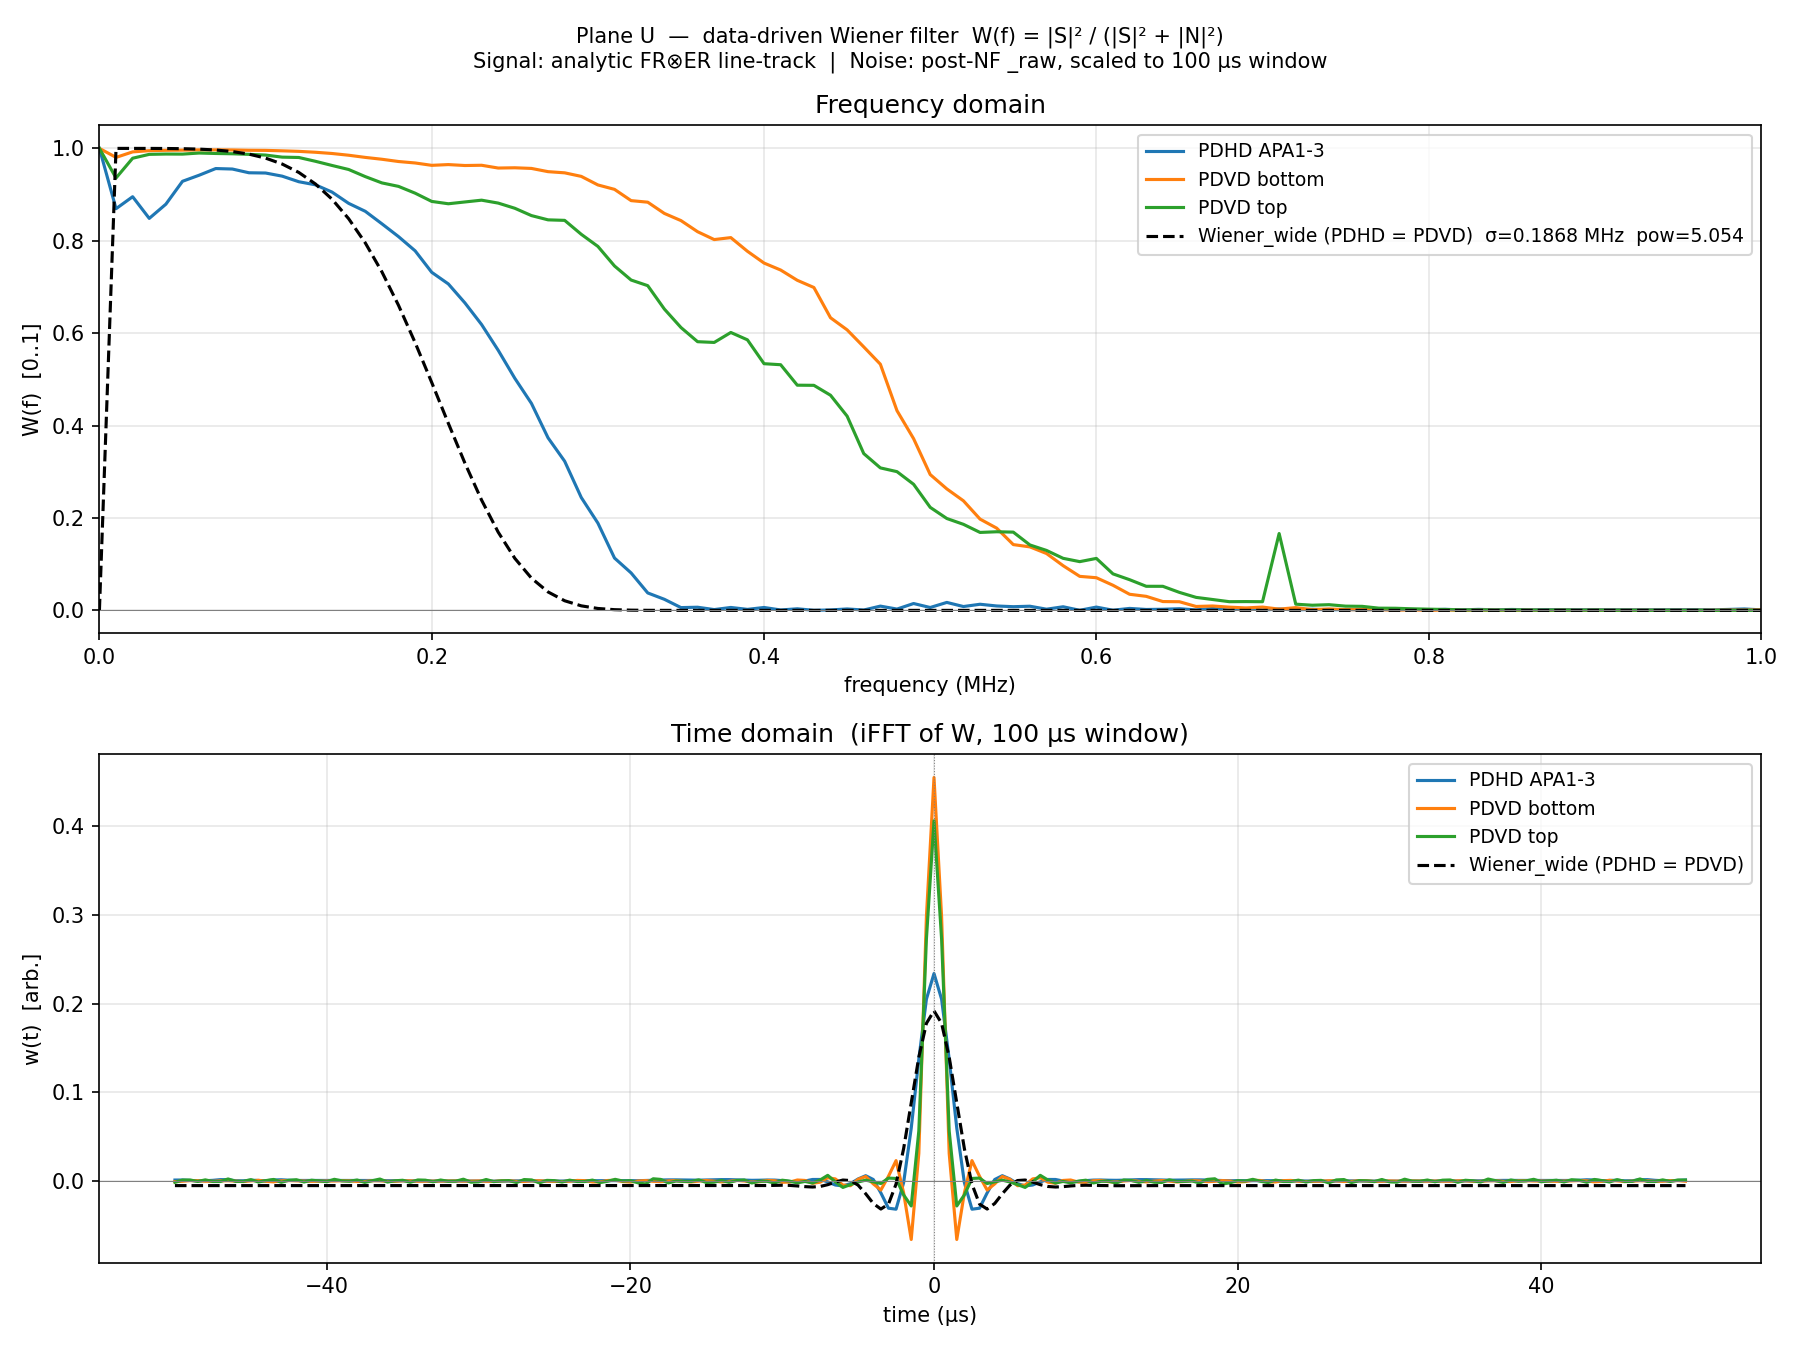
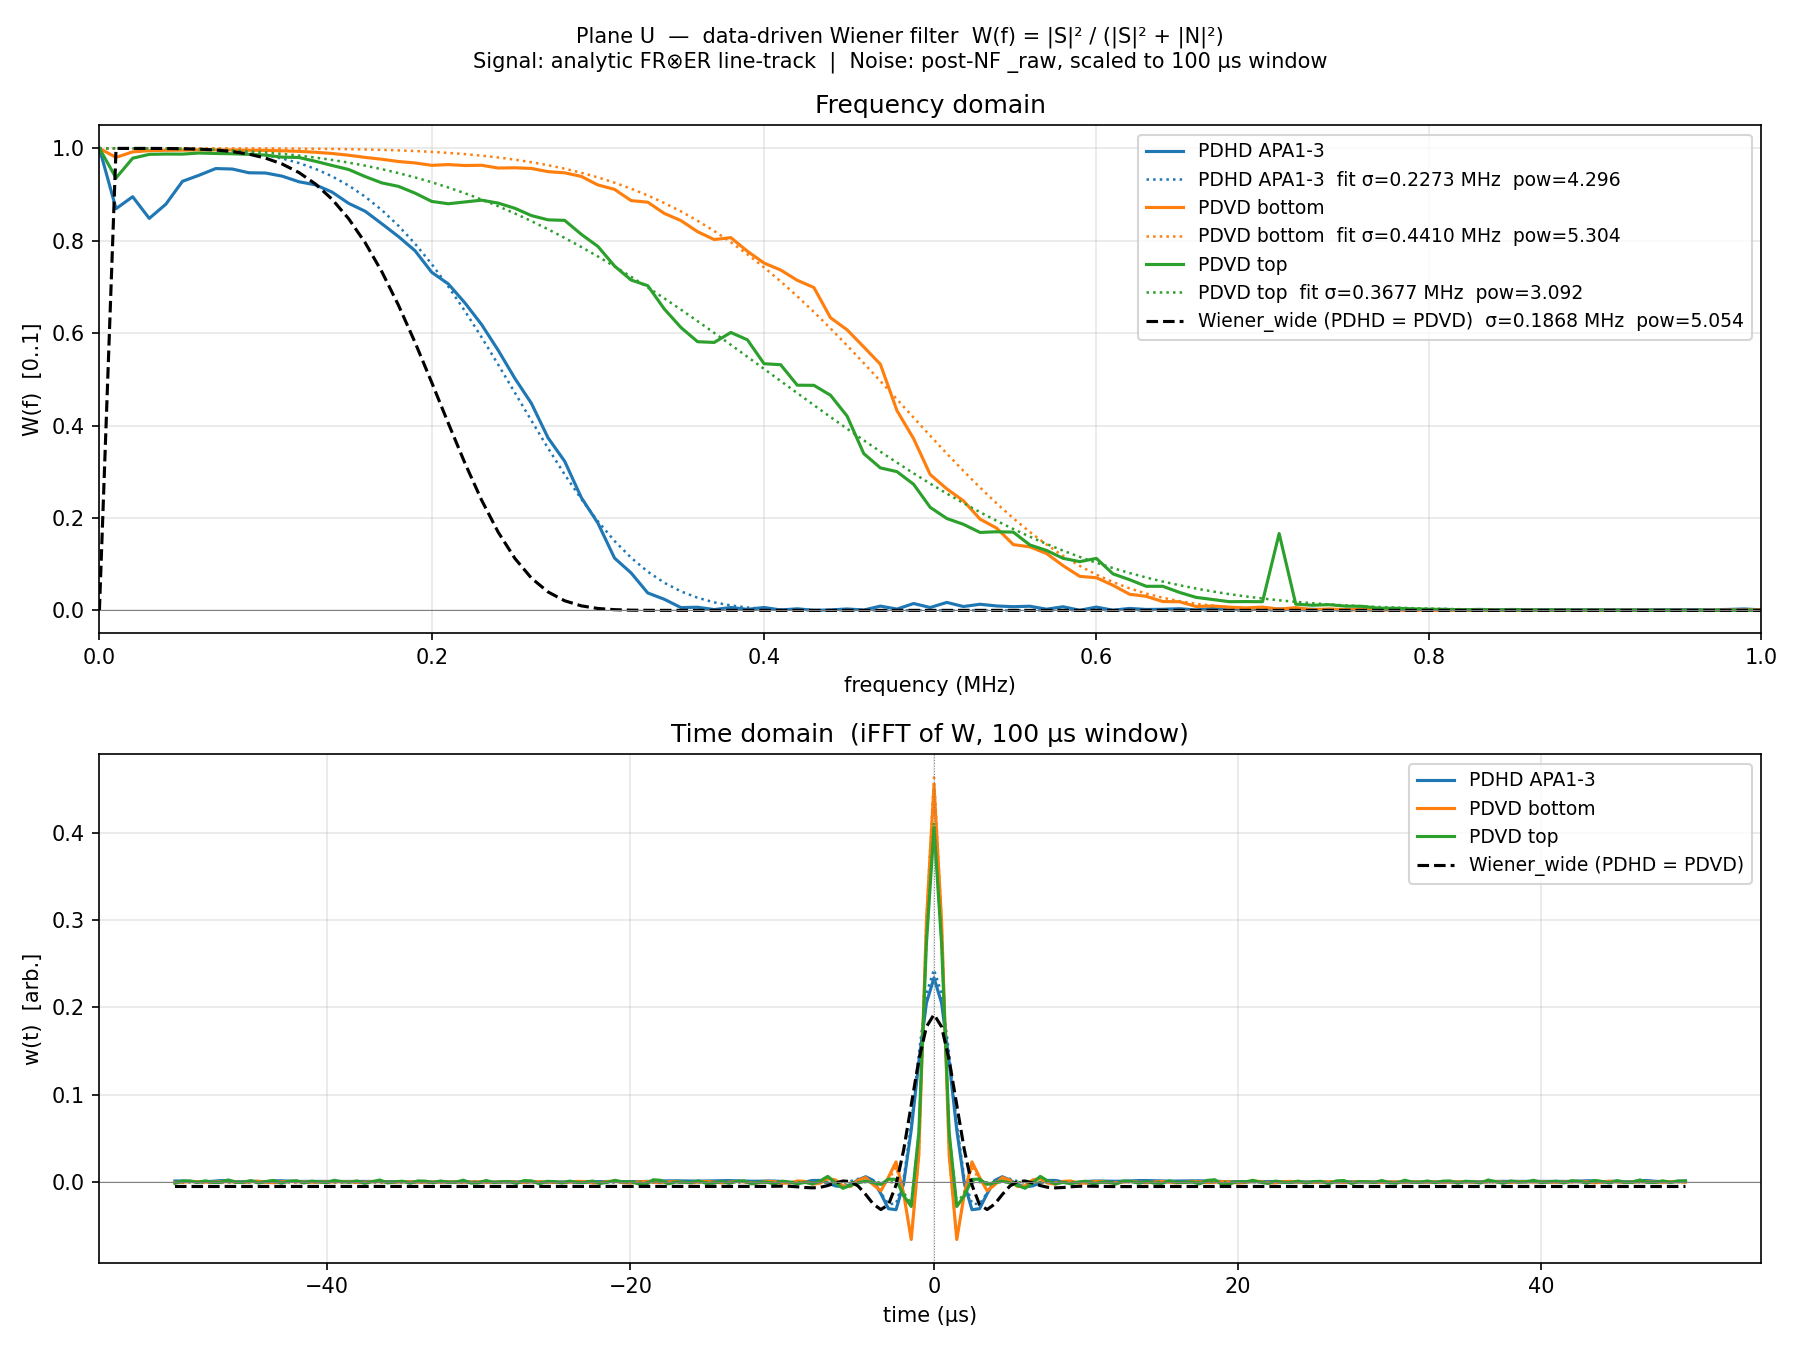
pdvd/sp_plot/wiener_filter_construct: fit falling edge to WireCell parametric form
Fits exp(-0.5*(f/sigma)^power) to the data-driven W(f) over the 0.1-0.5 MHz
falling edge for each (detector, plane).  The form is 1 at f=0 by
construction.  Fitted curves overlaid as dotted lines (same colour as the
data-driven curve); sigma and power printed to stdout and shown in the legend.

Fitted sigma values (U/V plane):
  PDHD         0.227 / 0.232 MHz
  PDVD bottom  0.441 / 0.420 MHz   (~2x wider than current Wiener_wide)
  PDVD top     0.368 / 0.351 MHz

diff --git a/pdvd/sp_plot/wiener_filter_construct.py b/pdvd/sp_plot/wiener_filter_construct.py
@@ -51,6 +51,7 @@ import uproot
 import matplotlib
 matplotlib.use('Agg')
 import matplotlib.pyplot as plt
+from scipy.optimize import curve_fit
 
 SCRIPTDIR = os.path.dirname(os.path.abspath(__file__))
 NF_PLOT   = os.path.join(SCRIPTDIR, '..', 'nf_plot')
@@ -97,6 +98,36 @@ def wiener_wide_analytic(f_mhz, plane_id):
     H = np.exp(-0.5 * (f_mhz / p['sigma']) ** p['power'])
     H[0] = 0.0   # flag=True: zero DC bin
     return H
+
+
+# ---------------------------------------------------------------------------
+# Fit the data-driven W(f) to the WireCell parametric form:
+#   H(f) = exp(-0.5 * (f/sigma)^power)
+# H(0) = 1 by construction; the fit targets the falling edge.
+# ---------------------------------------------------------------------------
+
+def _wiener_form(f, sigma, power):
+    return np.exp(-0.5 * (f / sigma) ** power)
+
+
+def fit_wiener_params(f_mhz, W, f_lo=0.1, f_hi=0.5):
+    """
+    Fit exp(-0.5*(f/sigma)^power) to W over [f_lo, f_hi] MHz.
+    Returns (sigma_MHz, power) or (None, None) on failure.
+    """
+    mask  = (f_mhz >= f_lo) & (f_mhz <= f_hi) & (W > 0)
+    f_fit = f_mhz[mask]
+    W_fit = W[mask]
+    if len(f_fit) < 3:
+        return None, None
+    try:
+        popt, _ = curve_fit(_wiener_form, f_fit, W_fit,
+                            p0=[0.2, 4.0],
+                            bounds=([0.02, 0.5], [2.0, 30.0]),
+                            maxfev=10000)
+        return float(popt[0]), float(popt[1])
+    except RuntimeError:
+        return None, None
 
 
 # ---------------------------------------------------------------------------
@@ -192,8 +223,12 @@ def wiener_one(spec, plane_id):
     w_t = np.fft.fftshift(np.fft.irfft(W, n=N_SHORT))
     t   = (np.arange(N_SHORT) - N_SHORT // 2) * TICK_US
 
+    # Fit the falling edge to the WireCell parametric form.
+    sigma_fit, power_fit = fit_wiener_params(f_short, W)
+
     return {'f_short': f_short, 'W': W, 't': t, 'w_t': w_t,
             'S_pow': S_pow, 'N_pow': P_short,
+            'sigma_fit': sigma_fit, 'power_fit': power_fit,
             'label': spec['label'], 'color': spec['color']}
 
 
@@ -214,6 +249,14 @@ def make_plot(plane_label, plane_id, results, outpath):
     for r in results:
         axes[0].plot(r['f_short'], r['W'],   color=r['color'], lw=1.5, label=r['label'])
         axes[1].plot(r['t'],       r['w_t'], color=r['color'], lw=1.5, label=r['label'])
+        # Fitted parametric curve (dotted, same colour).
+        if r['sigma_fit'] is not None:
+            H_fit   = _wiener_form(r['f_short'], r['sigma_fit'], r['power_fit'])
+            h_fit_t = np.fft.fftshift(np.fft.irfft(H_fit, n=N_SHORT))
+            lbl_fit = (f"  fit σ={r['sigma_fit']:.4f} MHz  pow={r['power_fit']:.3f}")
+            axes[0].plot(r['f_short'], H_fit,   color=r['color'], lw=1.2, ls=':',
+                         label=r['label'] + lbl_fit)
+            axes[1].plot(r['t'],       h_fit_t, color=r['color'], lw=1.2, ls=':')
 
     # Overlay analytic PDHD Wiener_wide (identical to PDVD wide).
     f_ref = results[0]['f_short']
@@ -281,8 +324,10 @@ def run():
         for spec in DETECTORS:
             r = wiener_one(spec, plane_id)
             peak = r['w_t'].max()
+            s, p = r['sigma_fit'], r['power_fit']
+            fit_str = f'σ={s:.4f} MHz  pow={p:.3f}' if s is not None else 'fit failed'
             print(f'  {spec["label"]:20s}  W_dc={r["W"][0]:.3f}  '
-                  f'W_pk={r["W"].max():.3f}  w_t_peak={peak:.4f}')
+                  f'W_pk={r["W"].max():.3f}  w_t_peak={peak:.4f}  fit: {fit_str}')
             results.append(r)
         outpath = os.path.join(SCRIPTDIR, f'wiener_filter_{plane_label}.png')
         make_plot(plane_label, plane_id, results, outpath)
